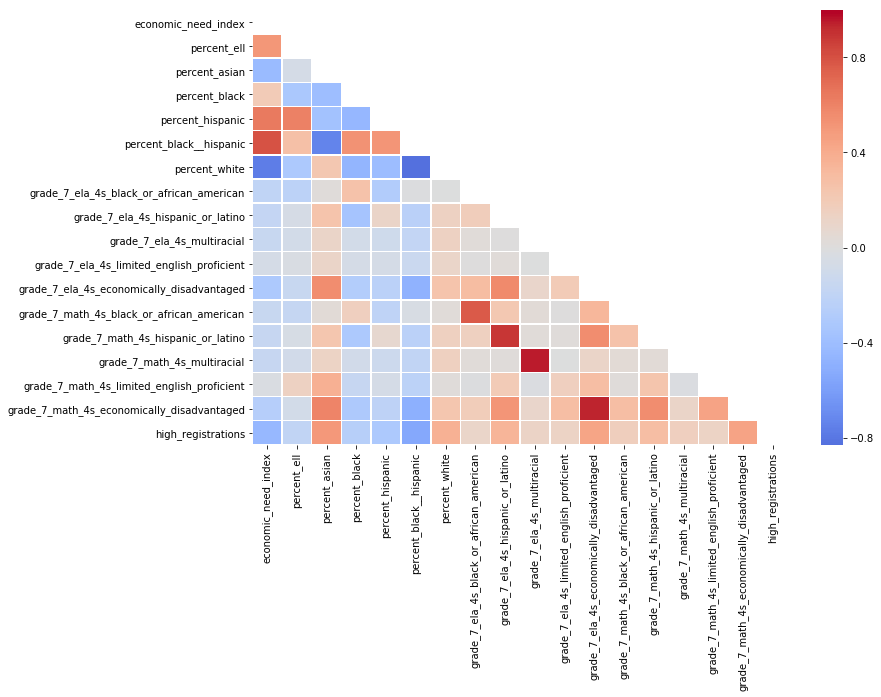
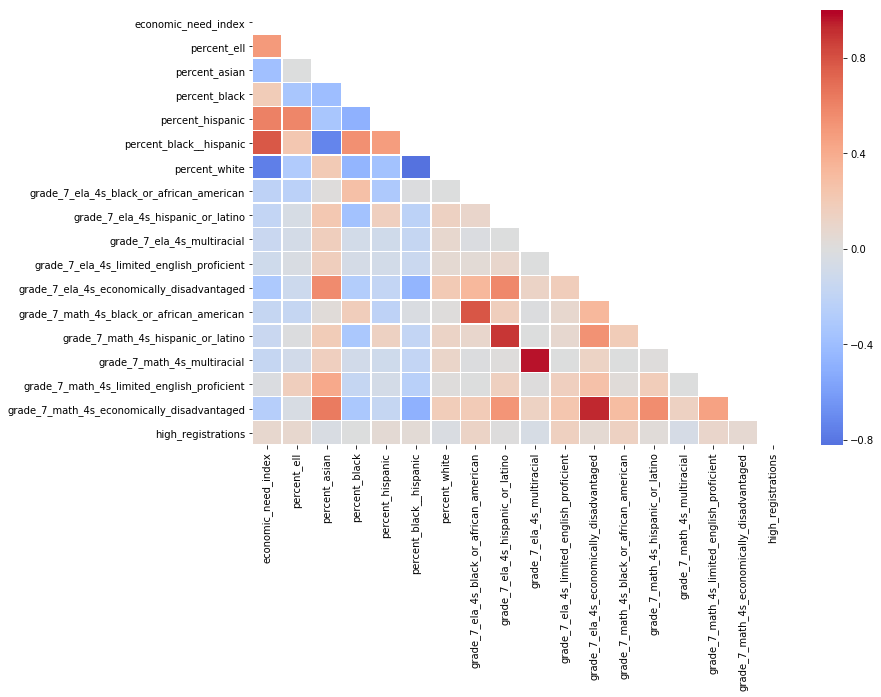
fixes to make corrplots work with new read_data

diff --git a/eda_correlation_matrices.py b/eda_correlation_matrices.py
@@ -9,7 +9,7 @@
 # 
 # [Return to project overview](final_project_overview.ipynb)
 
-# In[29]:
+# In[14]:
 
 
 # import necessary libraries
@@ -25,19 +25,22 @@ pd.set_option('display.max_rows', 200)
 
 # Get train-test split
 train_data, test_data, train_labels, test_labels = util.read_data()
+# convert train_labels into a dataframe in order to concatenate it
+train_labels_df = pd.DataFrame(train_labels)
+train_labels_df.columns=['high_registrations']
 
 # Concatenate training features and labels into one dataframe
-Xy_train = pd.concat([train_data, train_labels], axis=1)
+Xy_train = pd.concat([train_data, train_labels_df], axis=1)
 
 
 # ## Correlation Matrix: key non-demographic features
 # 
 # As we expect many of our features to be highly correlated, looking at a visual representation of the correlation matrix is a useful step in our EDA.  In this first plot, we intentionally omit features either directly representing, or closely related to demographic features.  
 
-# In[32]:
+# In[15]:
 
 
-get_ipython().run_line_magic('matplotlib', 'inline')
+get_ipython().magic('matplotlib inline')
 
 # choose key features for correlation matrix
 corr_features = ['grade_7_enrollment',
@@ -95,7 +98,7 @@ draw_heatmap(Xy_train[corr_features], 'plots/corr_matrix_key_features.png')
 # 
 # As the lack of diversity in the SHSAT registrations is part of our original problem statement, it is also interesting to look at the existing correlation between demographic-related features and test registrations.
 
-# In[31]:
+# In[16]:
 
 
 # choose key features for correlation matrix
@@ -143,19 +146,20 @@ draw_heatmap(Xy_train[demog_features], 'plots/corr_matrix_demographics.png')
 # 
 # Let us look at the distribution of test taker percentage across NYC schools.
 
-# In[33]:
+# In[19]:
 
 
 import seaborn as sns
 import matplotlib.pyplot as plt
 
+plt.rcParams['figure.figsize'] = [12, 3]
 sns.boxplot(x=train_data['pct_test_takers'])
 plt.show()
 
 
 # There are quite a few outliers there.  Let us look at them.
 
-# In[34]:
+# In[20]:
 
 
 display(train_data[train_data['pct_test_takers'] >= 90].sort_values('pct_test_takers', ascending=False))
